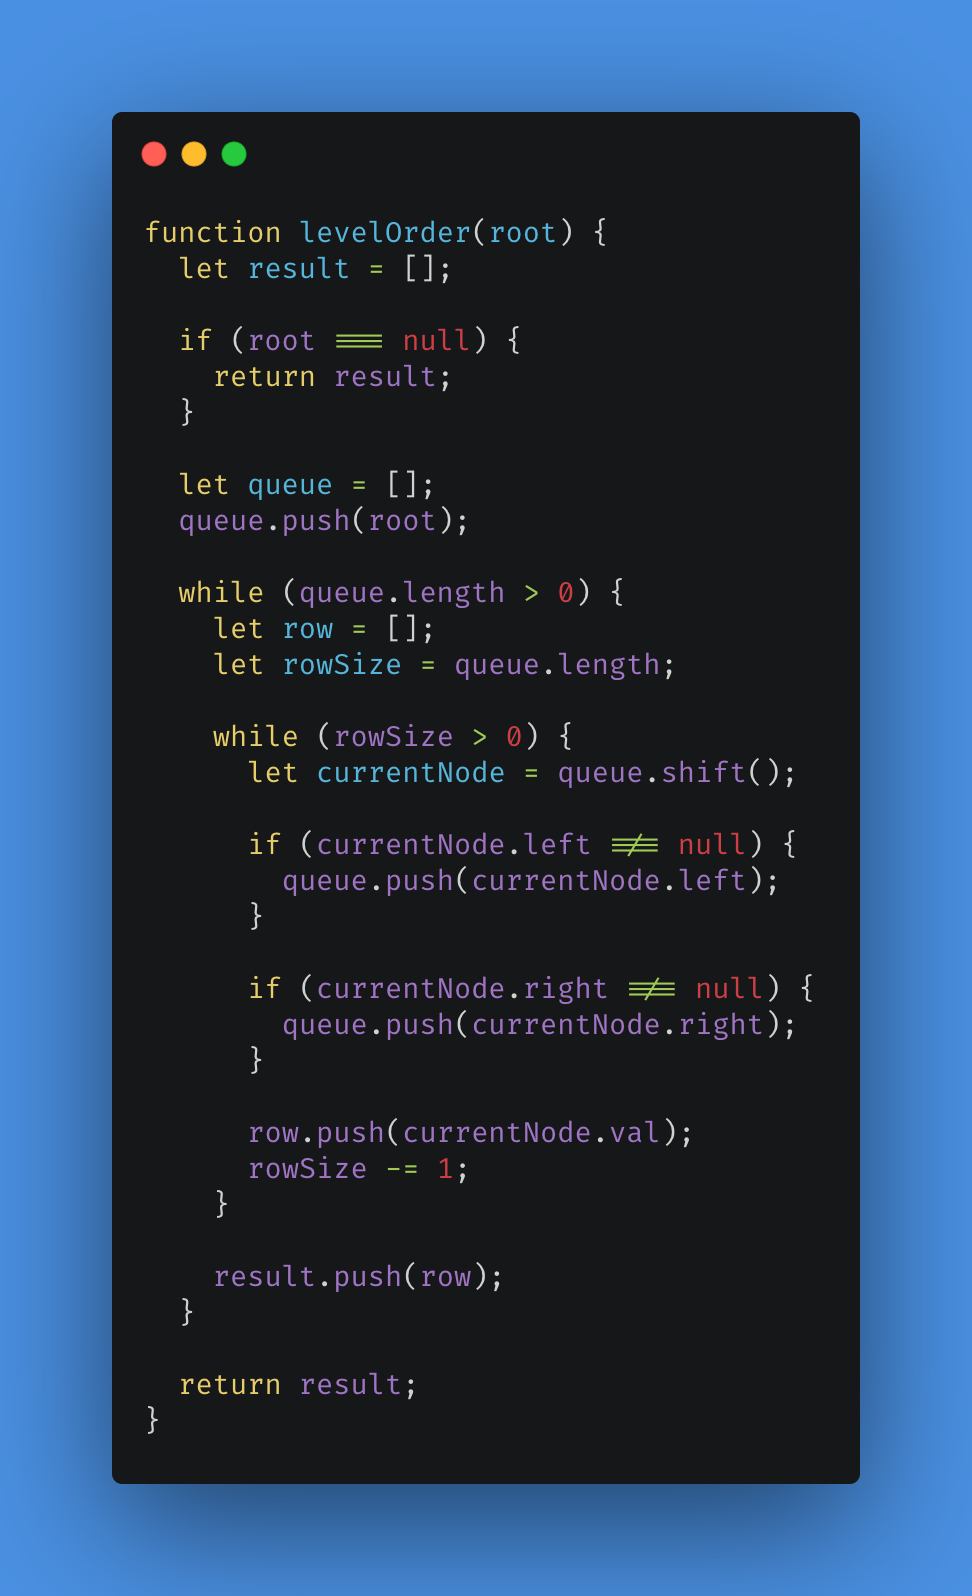
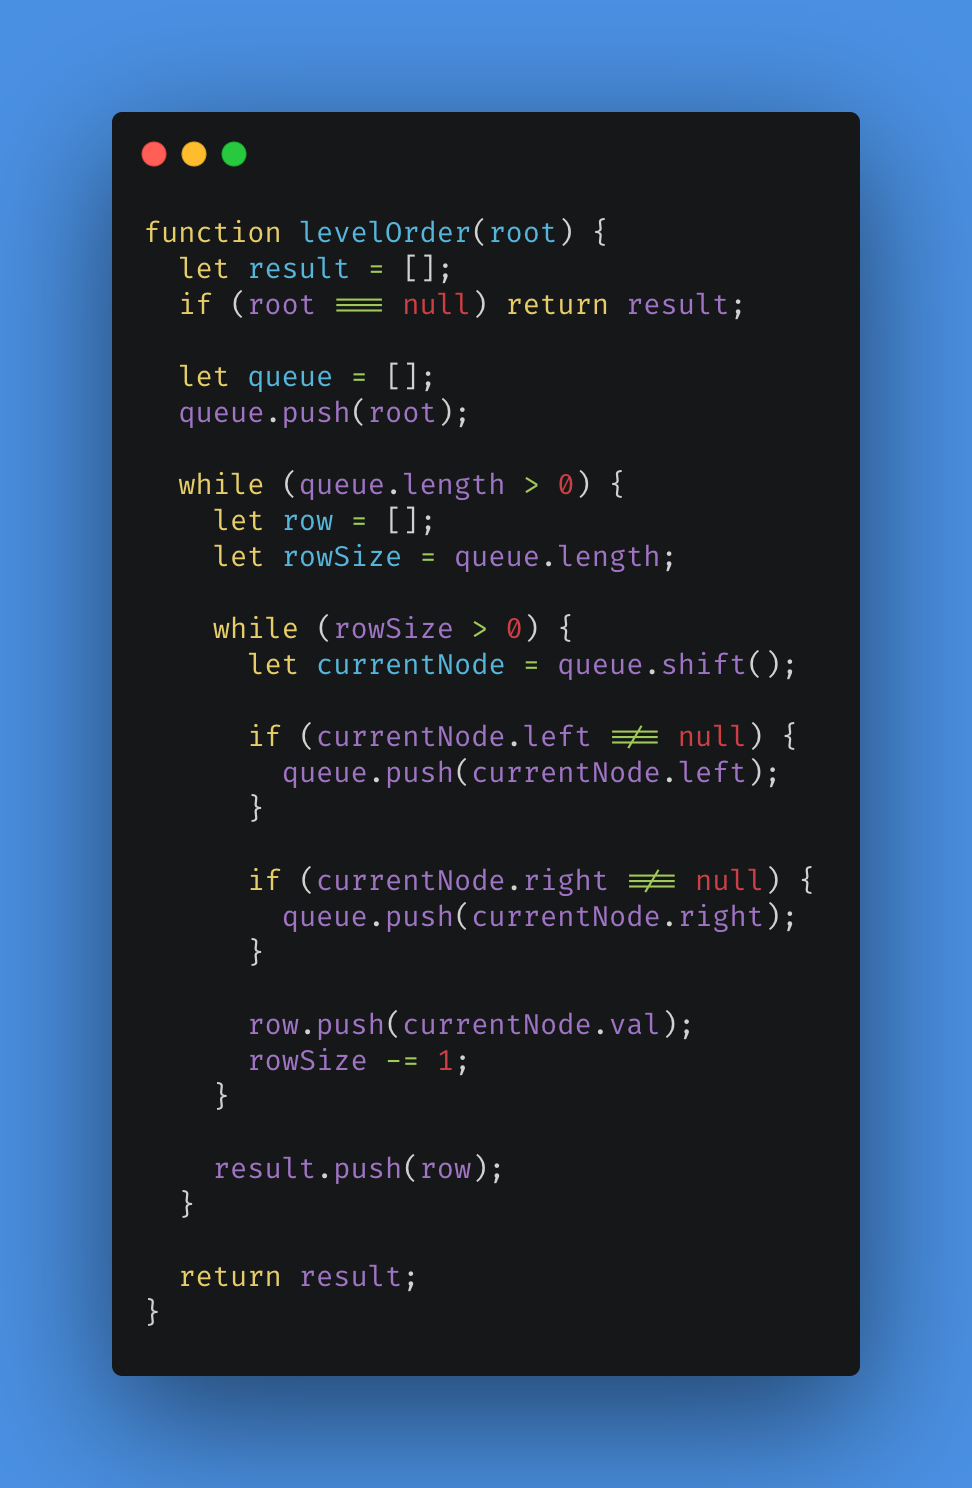
Chore: Binary Tree Level Order Traversal

diff --git a/101-leetcode/024/solution.js b/101-leetcode/024/solution.js
@@ -6,10 +6,7 @@
 {
   function levelOrder(root) {
     let result = [];
-
-    if (root === null) {
-      return result;
-    }
+    if (root === null) return result;
 
     let queue = [];
     queue.push(root);

diff --git a/101-leetcode/024/carbon/001.js b/101-leetcode/024/carbon/001.js
@@ -1,9 +1,6 @@
 function levelOrder(root) {
   let result = [];
-
-  if (root === null) {
-    return result;
-  }
+  if (root === null) return result;
 
   let queue = [];
   queue.push(root);
